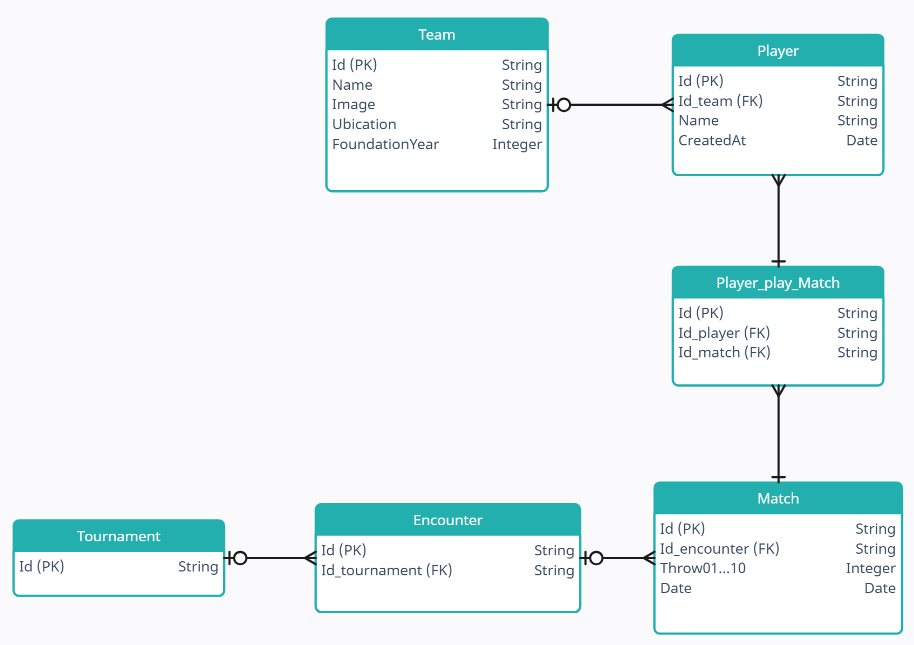
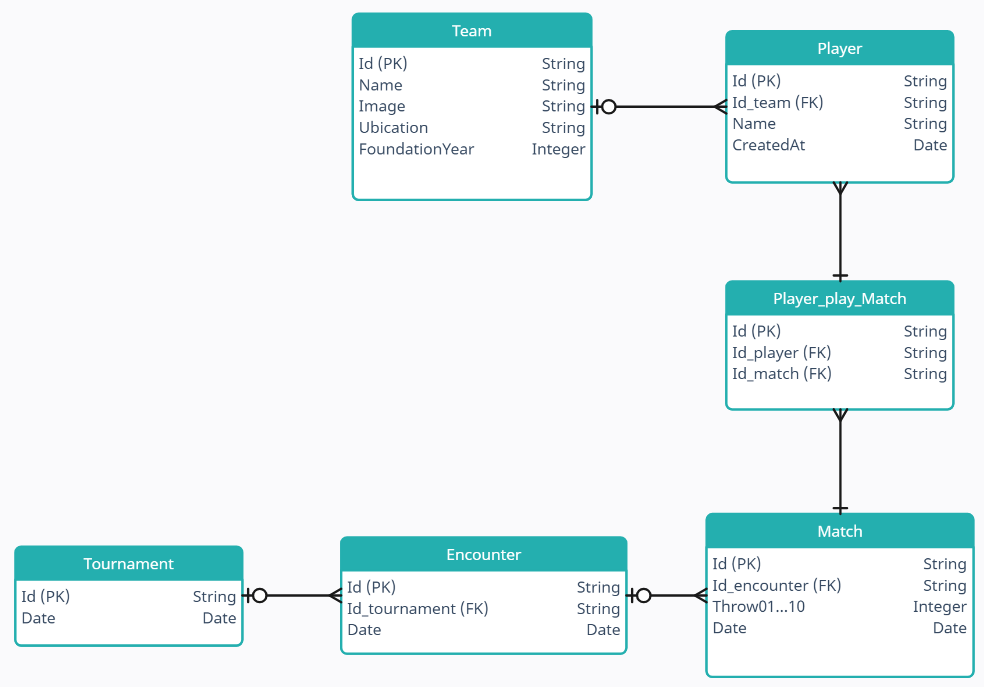
updated database

Changed region(s): [[0.337, 0.0, 0.9803, 0.8062], [0.0, 0.7442, 1.0, 0.9922], [0.4289, 0.7752, 0.5514, 0.8372]]

diff --git a/bowling-service/src/database/models/player_play_match.entity.ts b/bowling-service/src/database/models/player_play_match.entity.ts
@@ -2,7 +2,7 @@ import { Column, DataType, Model, Table } from "sequelize-typescript";
 const { v4: uuidv4 } = require('uuid');
 
 @Table
-export class Tournament extends Model
+export class PlayerPlayMatch extends Model
 {
     @Column({
         type: DataType.STRING(36),
@@ -12,7 +12,14 @@ export class Tournament extends Model
     id: string;
 
     @Column({
-        type: DataType.DATE
+        type: DataType.STRING(36),
+        allowNull: false
     })
-    date: Date
+    id_player: string;
+
+    @Column({
+        type: DataType.STRING(36),
+        allowNull: false
+    })
+    id_match: string;
 }

diff --git a/bowling-service/src/database/models/encounter.entity.ts b/bowling-service/src/database/models/encounter.entity.ts
@@ -14,4 +14,9 @@ export class Encounter extends Model
         type: DataType.STRING(36)
     })
     id_tournament: string;
+
+    @Column({
+        type: DataType.DATE
+    })
+    date: Date
 }
